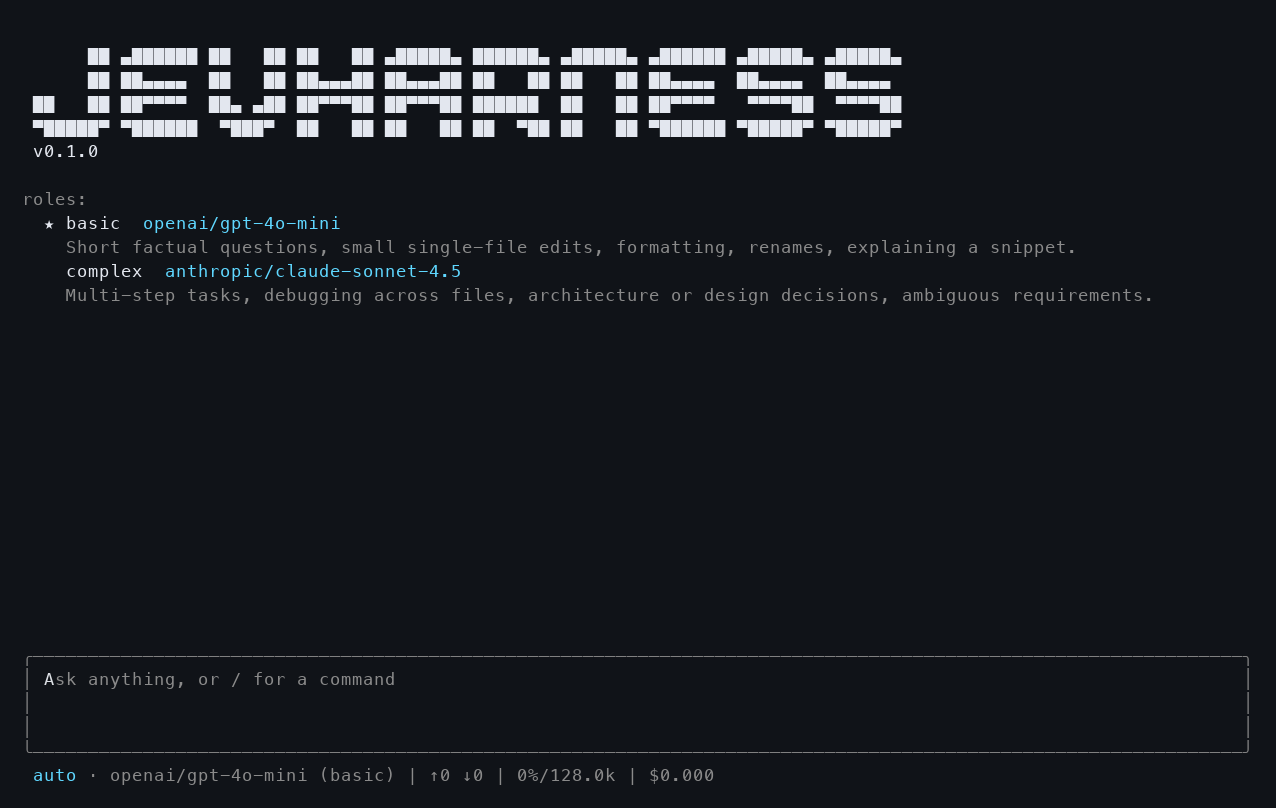
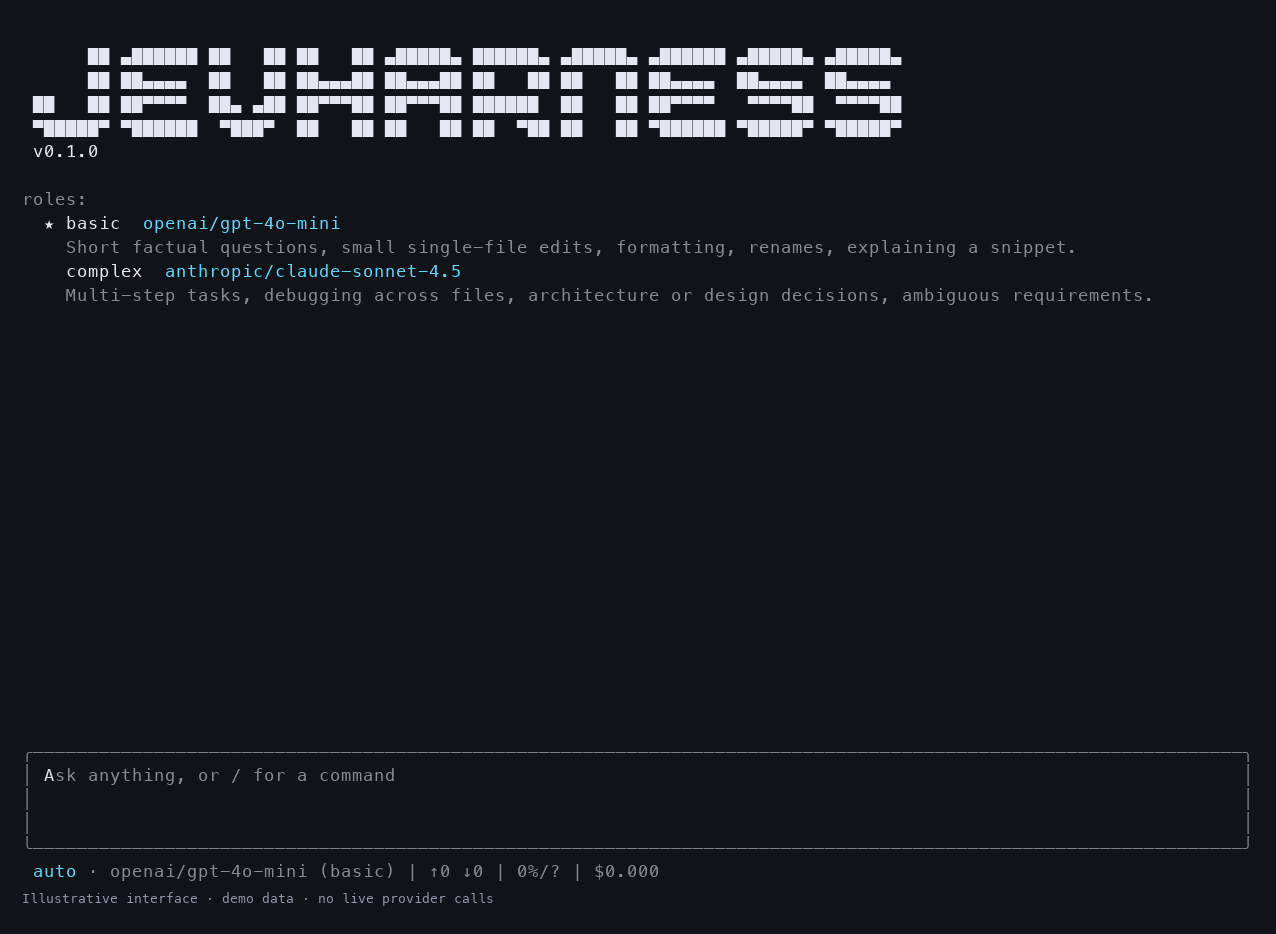
docs(showcase): refresh provider and session captures
Original-Commit: d4cfddbc12987023c892d99b74c005472518021d

diff --git a/screenshots/README.md b/screenshots/README.md
@@ -1,6 +1,6 @@
 # Interface screenshots
 
-These are illustrative captures of the terminal interface. Task text, Jev decisions, confidence scores, model replies, timings and usage figures are demo data; no live OpenRouter request was made for these captures. They show the routing flow, not measured speed or accuracy.
+These are illustrative captures of the terminal interface. Task text, Jev decisions, confidence scores, model replies, timings and usage figures are demo data; no live provider request was made for these captures. They show the routing flow, not measured speed or accuracy.
 
 | Screenshot | What it shows |
 | --- | --- |
@@ -9,17 +9,26 @@ These are illustrative captures of the terminal interface. Task text, Jev decisi
 | [Basic routing](02-auto-routing-and-code.png) | A focused request sent to the basic role. |
 | [Complex routing](03-complex-task-routing.png) | A broader request sent to the complex role. |
 | [Confidence fallback](04-confidence-fallback.png) | An uncertain decision using the default role. |
-| [Pinned role](05-pinned-role.png) | A role selected by the user. |
+| [Pinned role](05-pinned-role.png) | A role selected by the user, labelled pinned rather than a measured confidence. |
 | [Tool approval](06-tool-approval.png) | A local action waiting for permission. |
 | [Tool result](07-tool-output.png) | The result shown after a tool call. |
 | [Roles](08-roles-command.png) | The configured role list. |
-| [Settings](09-settings-overview.png) | The settings screen. |
+| [Settings](09-settings-overview.png) | The settings screen with routing, provider keys, roles and compaction. |
 | [Edit a role](10-edit-role-criteria.png) | The text Jev uses to decide when a role fits. |
 | [Add a role](11-add-role.png) | Creating another role. |
-| [Routing settings](12-routing-settings.png) | Model, confidence threshold and API key fields. |
+| [Routing settings](12-routing-settings.png) | Model, confidence threshold and masked keys for all three providers. |
 | [Status line](13-status-line-settings.png) | Choosing visible status details. |
 | [Shortcuts](14-settings-shortcuts.png) | Keyboard help. |
 | [Multiline input](15-multiline-input.png) | A longer message draft. |
 | [YOLO mode](16-yolo-mode.png) | Automatic tool approval, shown for completeness; avoid it in a trial. |
+| [Command suggestions](17-command-suggestions.png) | Filtering slash commands while typing, with keyboard completion. |
+| [Saved sessions](18-saved-sessions.png) | Browsing earlier conversations in the current working directory. |
+| [Session stats](19-session-stats.png) | Reported tokens, costs, requests by model and last prompt usage. |
+| [Context settings](20-context-settings.png) | Choosing a compaction percentage or disabling it. |
+| [Context compaction](21-context-compaction.png) | A notice when earlier context has been summarised. |
+| [Provider roles](22-provider-roles.png) | Role criteria mapped to OpenRouter, direct DeepSeek and OpenCode Go. |
+| [Direct provider](23-direct-provider.png) | A pinned role using the direct DeepSeek backend. |
 
-**Safety:** This harness is for tests, not real coding work. Use a throwaway workspace and temporary API key, then revoke it and create a new key after use.
+Every image was refreshed from the reviewed TUI on 30 September 2026. The caption beneath each capture identifies its illustrative data. The routing overview combines the same four rendered routing states.
+
+**Safety:** This harness is for tests, not real coding work. Use a throwaway workspace and temporary API keys, then revoke them and create new keys after use.
